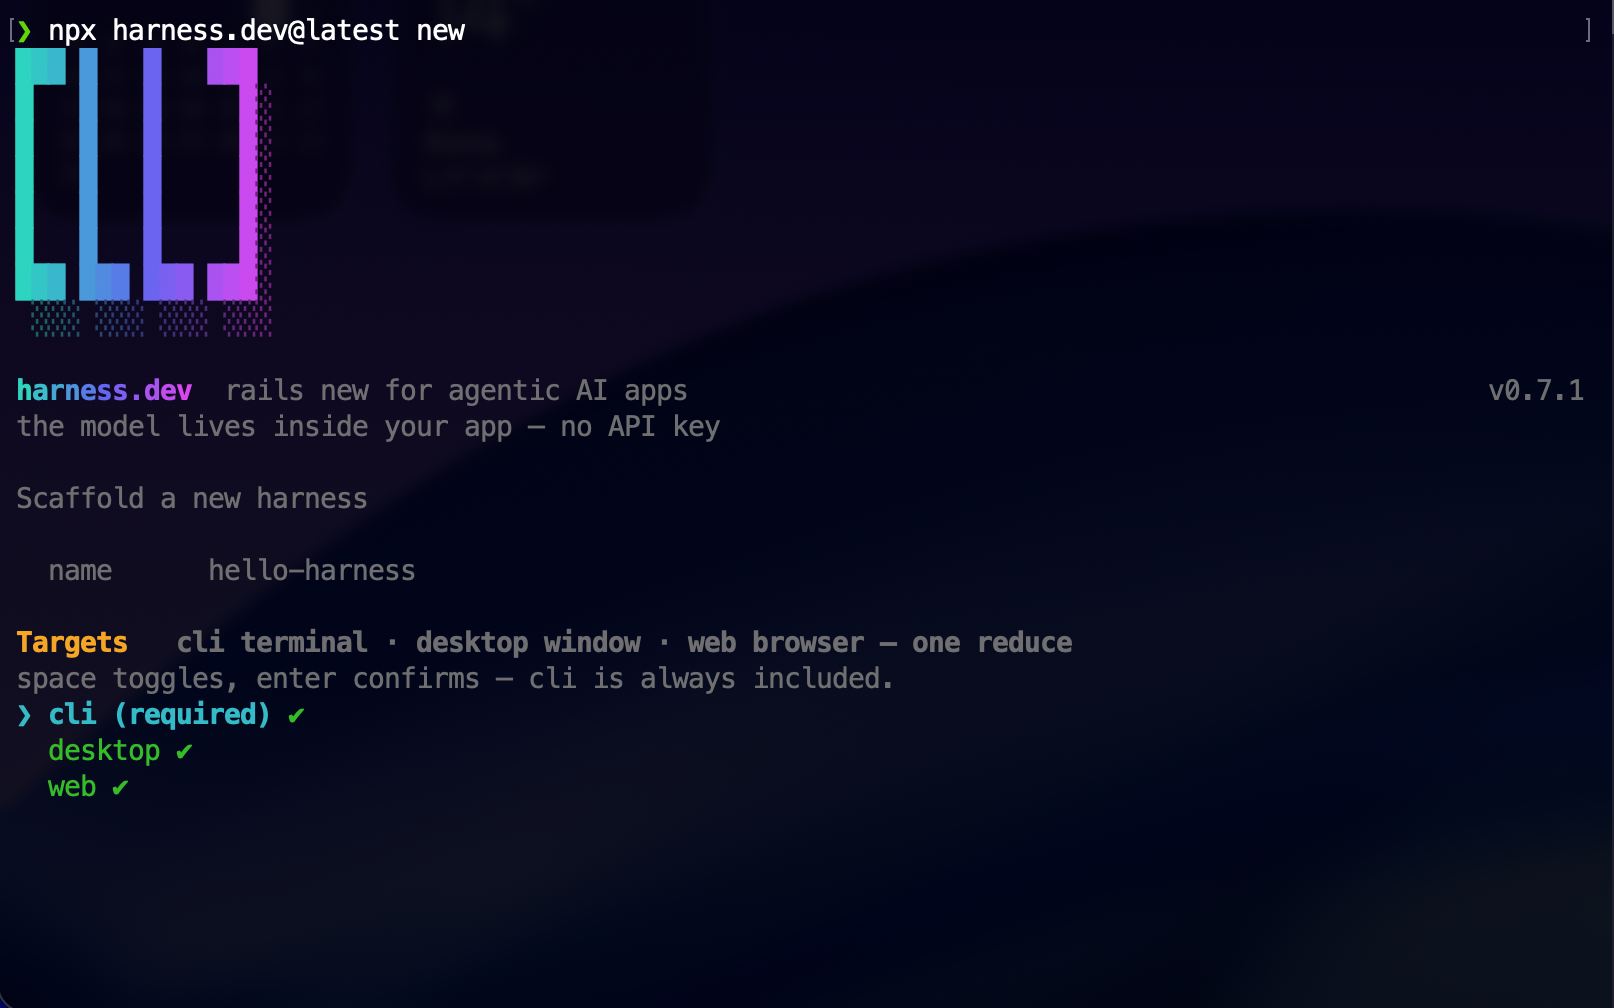
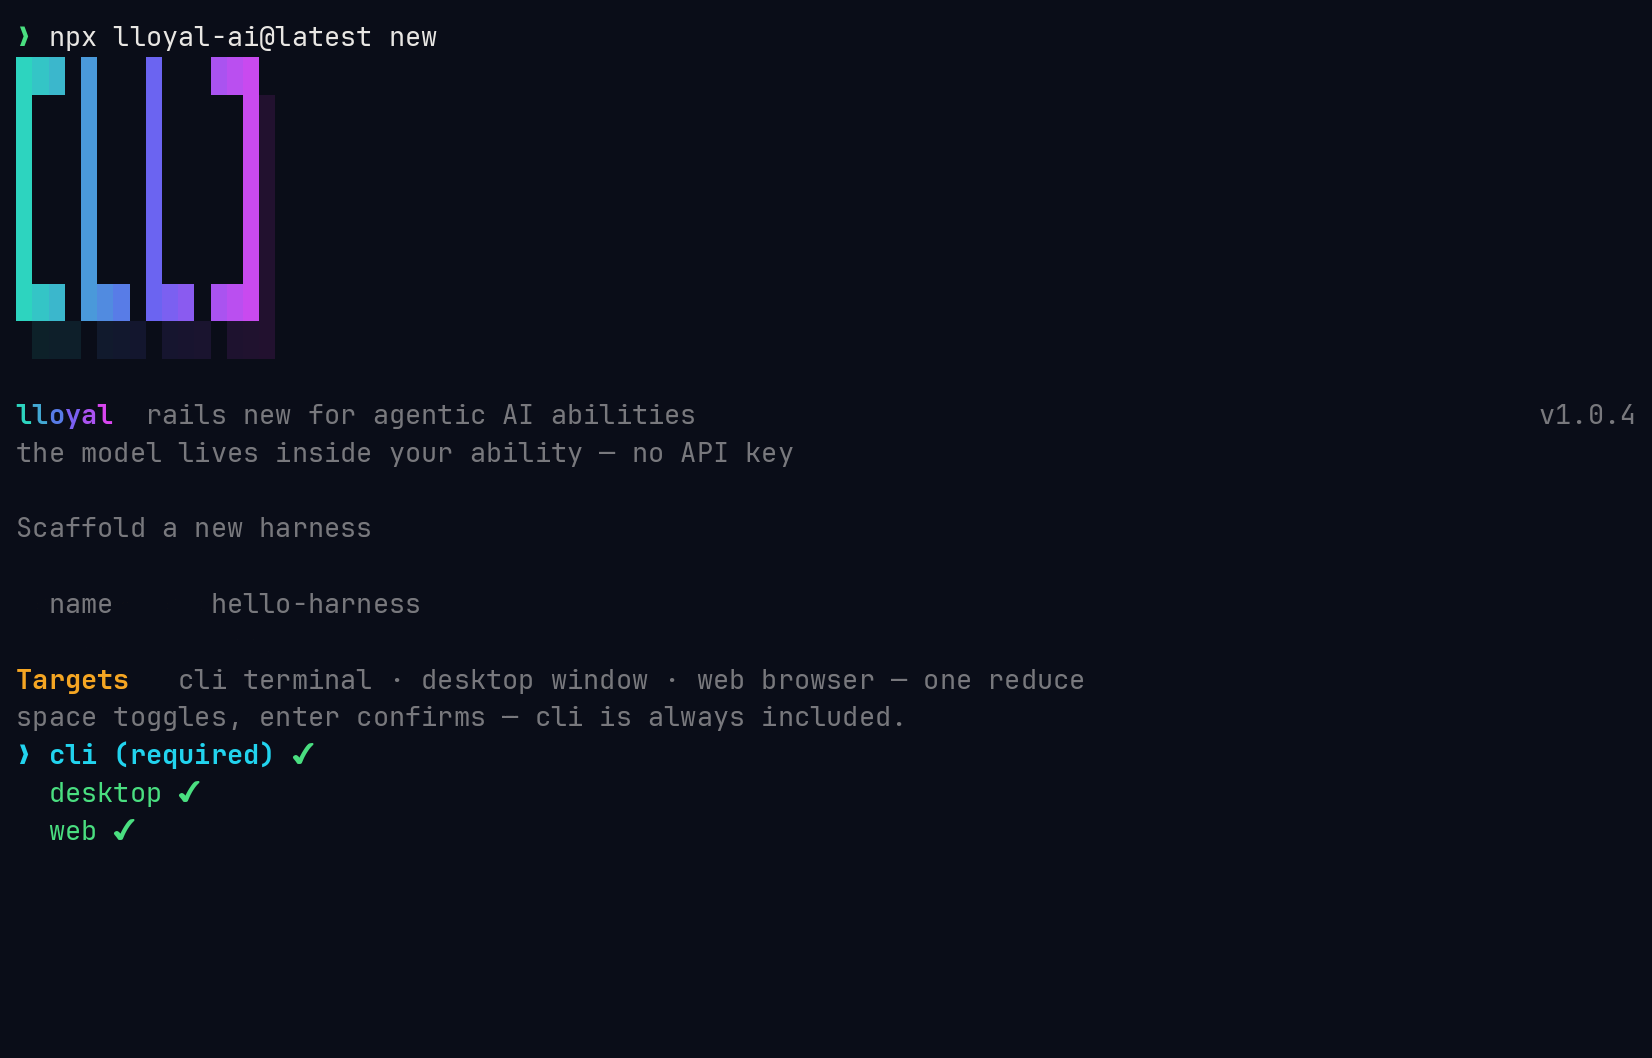
docs: re-shoot build-your-first-harness for lloyal-ai
Every still on this page was a v0.7.1 screenshot, so the banner read
harness.dev and the ready screen said "Add apps:". Re-recorded against
lloyal-ai@1.0.4 and re-cut all seven stills out of the new recording.

Adds two GIFs of real runs: the whole `npx lloyal-ai@latest new` wizard at
the top of section 1, and `npm run dev:web` in place of still 07. Both are
genuine PTY recordings; the only post-processing is timing.

Alt text now names lloyal-ai instead of harness.dev.

diff --git a/build-your-first-harness.html b/build-your-first-harness.html
@@ -52,10 +52,14 @@ description: Use lloyal-ai to create an application, begin a Session, inspect it
 <p>Requires Node 24 or newer.</p>
 <div class="code-frame"><div class="code-label">TERMINAL</div><pre><code>npx<span class="w"> </span>lloyal-ai<span class="w"> </span>new
 </code></pre></div><p>The wizard defines the application boundary before it writes any code. Each choice below becomes an explicit part of the generated harness.</p>
+<figure class="flow-shot">
+<img alt="lloyal-ai wizard running end to end, from npx lloyal-ai@latest new to the hello-harness ready screen" src="/assets/guides/build-your-first-harness-new.gif"/>
+<figcaption>The whole wizard in one pass: the five prompts covered below, then the scaffold and dependency install, ending on the ready screen.</figcaption>
+</figure>
 <h2 id="name-the-application">Name the application</h2>
 <p>Type <code>hello-harness</code> and press Enter. The name becomes the project folder and npm package name.</p>
 <figure class="flow-shot">
-<img alt="harness.dev at the Harness name step with hello-harness entered" src="/assets/guides/build-your-first-harness-01.png"/>
+<img alt="lloyal-ai at the Harness name step with hello-harness entered" src="/assets/guides/build-your-first-harness-01.png"/>
 <figcaption>The harness is named as an application artifact, not as an endpoint or request handler.</figcaption>
 </figure>
 <p>A harness is the program you are building. The CLI materialises the project around that application boundary.</p>
@@ -66,7 +70,7 @@ description: Use lloyal-ai to create an application, begin a Session, inspect it
 <h2 id="choose-its-surfaces">Choose its surfaces</h2>
 <p>Select CLI, desktop, and web.</p>
 <figure class="flow-shot">
-<img alt="harness.dev with CLI, desktop, and web selected" src="/assets/guides/build-your-first-harness-02.png"/>
+<img alt="lloyal-ai with CLI, desktop, and web selected" src="/assets/guides/build-your-first-harness-02.png"/>
 <figcaption>CLI is always included; desktop and web mount the same harness through their own bindings.</figcaption>
 </figure>
 <p>These are three presentations of one application contract—not three agent implementations. The intelligent procedure remains under <code>harness/</code>; target-specific wiring is generated under <code>targets/</code>.</p>
@@ -77,7 +81,7 @@ description: Use lloyal-ai to create an application, begin a Session, inspect it
 <h2 id="choose-a-trunk-model">Choose a trunk model</h2>
 <p>Use the recommended Qwen3.5 4B weight.</p>
 <figure class="flow-shot">
-<img alt="harness.dev at the trunk model step" src="/assets/guides/build-your-first-harness-03.png"/>
+<img alt="lloyal-ai at the trunk model step" src="/assets/guides/build-your-first-harness-03.png"/>
 <figcaption>The recommended model is fetched and digest-verified on first run. You can also bring a local GGUF.</figcaption>
 </figure>
 <p>The model is part of the application's execution environment. You are not configuring a client to an inference-provider endpoint.</p>
@@ -88,7 +92,7 @@ description: Use lloyal-ai to create an application, begin a Session, inspect it
 <h2 id="choose-a-starting-point">Choose a starting point</h2>
 <p>Select <strong>basic</strong>.</p>
 <figure class="flow-shot">
-<img alt="harness.dev with the basic Wikipedia research harness selected" src="/assets/guides/build-your-first-harness-04.png"/>
+<img alt="lloyal-ai with the basic Wikipedia research harness selected" src="/assets/guides/build-your-first-harness-04.png"/>
 <figcaption><code>basic</code> is a compact Wikipedia research harness; <code>research</code> is the larger tuned recon → plan → Agents → synthesis pipeline.</figcaption>
 </figure>
 <p>A template is editable TypeScript, not a hosted mode. It gives the harness an initial procedure and topology that you will change directly later in this guide.</p>
@@ -99,7 +103,7 @@ description: Use lloyal-ai to create an application, begin a Session, inspect it
 <h2 id="materialise-the-project">Materialise the project</h2>
 <p>The CLI scaffolds the targets, vendors the signed Wikipedia App, and installs the project dependencies.</p>
 <figure class="flow-shot">
-<img alt="harness.dev scaffolding hello-harness and installing dependencies" src="/assets/guides/build-your-first-harness-05.png"/>
+<img alt="lloyal-ai scaffolding hello-harness and installing dependencies" src="/assets/guides/build-your-first-harness-05.png"/>
 <figcaption>The project is materialised from the choices above; the generated code remains yours.</figcaption>
 </figure>
 <p>When installation completes, the wizard prints the exact command for every selected surface.</p>
@@ -112,7 +116,7 @@ description: Use lloyal-ai to create an application, begin a Session, inspect it
 <div class="code-frame"><div class="code-label">TERMINAL</div><pre><code><span class="nb">cd</span><span class="w"> </span>hello-harness
 npm<span class="w"> </span>run<span class="w"> </span>dev:web
 </code></pre></div><figure class="flow-shot">
-<img alt="npm run dev:web starting the resident-model host and browser client" src="/assets/guides/build-your-first-harness-07.png"/>
+<img alt="lloyal-ai hello-harness running npm run dev:web: the Vite browser client is up and the resident-model host is fetching the model" src="/assets/guides/build-your-first-harness-dev-web.gif"/>
 <figcaption>The web target boots the resident-model host and Vite browser client together. On first run, the host fetches and digest-verifies the model.</figcaption>
 </figure>
 <p>Open the local address printed by Vite: <code>http://localhost:5173/</code>. The browser is a surface over the host; the host owns the resident model and runs the same <code>harness.ts</code> application contract.</p>
